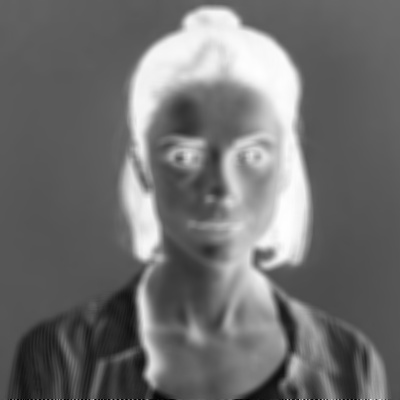
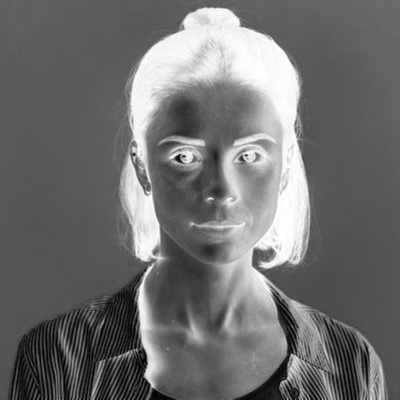
motion blur  & gaussian noise on Q2

diff --git a/Q2/Q2.py b/Q2/Q2.py
@@ -3,7 +3,44 @@ import numpy as np
 import math
 import random
 
-class masks:
+def boundPixVal(val):
+    return max(0,min(255, val))
+
+class merg:
+    def colourDodge(self, imageA, imageB, pix_ratio):
+
+        width, height = imageA.shape
+        canvas = np.zeros((width,height), np.uint8)
+
+
+        for row in range(len(imageA)):
+            for col in range(len(imageA[0])):
+
+                if imageB[col, row] == 255:
+                    canvas[row][col] = 255
+                else:
+                    ratio = 255/(256 - imageB[row][col]) *pix_ratio
+                    if ratio < 0:
+                        print(ratio)
+                    else:
+                        canvas[row][col] = boundPixVal(imageA[row][col] * ratio)
+
+        return canvas
+
+class motion:
+    def line(self, size):
+        if size%2 == 0:
+            size += 1
+        canvas = np.zeros((size, size))
+
+        mid = size//2
+        for row in range(size):
+            canvas[row][row] = 1
+
+        return canvas
+
+
+class gaussian:
 
     def normalDis(self, x, sigma):
         return ((1 / (sigma * math.sqrt(2 * math.pi))) * (math.e ** (-(x ** 2 / (2 * (sigma ** 2))))))
@@ -17,14 +54,23 @@ class masks:
             out.append(self.normalDis(i * diff, sigma) * 1 )
         return out
 
-    def gausssianNoise(self, deviation, width):
+    def randomGaussianPixelChange(self, deviation, width):
+        """
+        :param deviation: sigma for nromal distribution
+        :param width:
+        :return:
+        """
         #dropoff = self.gaussianDegradation(20, deviation)
         distribution = [self.normalDis(0, deviation)]
         effect = [1]
+
+        max = self.normalDis(0, deviation)
+        distribution = [1]
+        effect = [self.normalDis(0, deviation)/max]
         for i in range(width):
-            distribution = [self.normalDis(1, deviation)] + distribution + [self.normalDis(1, deviation)]
-            effect = [self.normalDis(1, deviation)] + effect + [1+(1 - self.normalDis(1, deviation)) ]
-        return random.choice(effect, distribution, k = 1)
+            distribution = [self.normalDis(i+1, deviation)**2/max**2] + distribution + [self.normalDis(1+i, deviation)**2/max**2]
+            effect = [self.normalDis(i+1, deviation)/max] + effect + [(1+(1 - self.normalDis(i+1, deviation)/max))]
+        return random.choices(effect, distribution)
 
 
     def hypotenusePythag(self, sideA, sideB):
@@ -50,10 +96,21 @@ class masks:
         return mask
 
     def validatePoints(self, image, x, y):
-        if x > 0 and y > 0:
+        if x >= 0 and y >= 0:
             if x <= len(image[0])-1   and y <= len(image)-1:
                 return True
         return False
+
+    def gaussianNoise(self, image, intensity):
+        canvas = image.copy()
+        rows, cols = len(image), len(image[0])
+
+
+        for row in range(rows - 1):
+            for col in range(cols - 1):
+                canvas[row][col] = boundPixVal(int(image[row][col] * self.randomGaussianPixelChange(1/intensity, 10)[0]))
+        return canvas
+
 
 
     def applyMask(self, image, mask):
@@ -75,7 +132,7 @@ class masks:
                         trial_p_x = t_l_x + mask_col
                         trial_p_y = t_l_y - mask_row
 
-                        if self.validatePoints(image, trial_p_x, trial_p_y):
+                        if self.validatePoints(image, trial_p_x, trial_p_y) and mask[mask_row][mask_row] != 0:
                             sum_valid_mask += mask[mask_row][mask_col]
                             sum_valid_maskXintensity += mask[mask_row][mask_col] * image[trial_p_y][trial_p_x]
 
@@ -120,13 +177,21 @@ class sketch:
 if __name__ == '__main__':
 
     face_image = cv2.imread("face1.jpg")
-    print(masks().validatePoints(face_image, -1, -1))
+
     drawing = sketch(face_image)
 
     grey = drawing.greyscale
     inv_grey = drawing.greyscale_flip
 
-    blured_face = masks().applyMask(inv_grey, masks().gaussianMask(9, 21))
+    #blured_face = gaussian().applyMask(inv_grey, gaussian().gaussianMask(3, 1))
 
-    cv2.imwrite("test.jpg", grey)
-    cv2.imwrite("test_blur.jpg", blured_face)
+    #sketch_test = merg().colourDodge(grey, blured_face,0.75)
+
+
+    motion_blured = gaussian().applyMask(grey, motion().line(10))
+    noise_texture = gaussian().gaussianNoise(motion_blured, 0.05)
+
+    #sketch_test = cv2.divide(grey, 100-blured_face, scale=256)
+    cv2.imwrite("noise_test.jpg", noise_texture)
+    cv2.imwrite("motion_test.jpg", motion_blured)
+    #cv2.imwrite("test_blur.jpg", blured_face)
